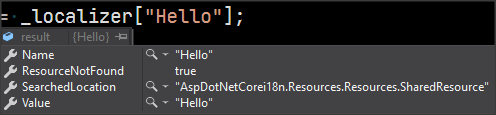
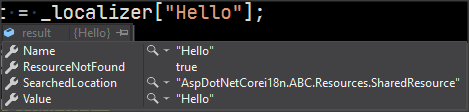
ok

diff --git a/DotNet/DotNet Core/ASP.NET Core/i18n/AddLocalization.md b/DotNet/DotNet Core/ASP.NET Core/i18n/AddLocalization.md
@@ -12,17 +12,11 @@ Package：`Microsoft.Extensions.Localization`
 
 ### ConfigureServices()
 
-startup.cs > ConfigureServices() 中 可不設定以下語法，就會套用預設值
-
-```csharp
-services.AddLocalization()
-```
+startup.cs > ConfigureServices() 中 可不設定 `services.AddLocalization()` ，就會套用預設值
 
 ### Configure()
 
-startup.cs > Configure() 要透過以下語法，才會讀取 request header Accept-Language
-
-並且將指定的語系設定至 Thread.CurrentThread 中的 `CurrentCulture` 及 `CurrentUICulture`，後續才可以透過 [IStringLocalizer\<T>](./IStringLocalizer.md) 來讀取 Resource Files
+startup.cs > Configure() 要透過下面的方式，才會讀取 request header Accept-Language，並且將指定的語系設定至 Thread.CurrentThread 中的 `CurrentCulture` 及 `CurrentUICulture`，後續才可以透過 [IStringLocalizer\<T>](./IStringLocalizer.md) 來讀取 Resource Files
 
 ```csharp
 var locOptions = app.ApplicationServices.GetService<IOptions<RequestLocalizationOptions>>();
@@ -33,11 +27,9 @@ app.UseRequestLocalization(locOptions.Value);
 
 ## 自訂 Resources 路徑
 
-所指定的目錄一定會以 `專案目錄/Resources` 做為根目錄
+所指定的目錄一定會以 `專案目錄` 做為根目錄，並且在指定目錄下找尋 `Resources` 的子目錄
 
-需要注意的是：
-- 目前找不到可以設定成 `專案目錄/自訂目錄/` 中的方式
-- 不支援相對路徑 `../自訂目錄` 這種方式
+需要注意的是不支援相對路徑 `../自訂目錄` 這種方式
 
 當 startup.cs > ConfigureServices() 中 設定以下語法時
 
@@ -45,13 +37,13 @@ app.UseRequestLocalization(locOptions.Value);
 services.AddLocalization(options => options.ResourcesPath = "ABC")
 ```
 
-就會尋找 `專案目錄/Resources/ABC` 中的 *.resx
+就會尋找 `專案目錄/ABC/Resources` 中的 *.resx
 
 ---
 
 ## 自訂 Resources 路徑的 Debug 方式
 
-在 Asp.Net Core 3.1 的情況下，當透過 IStringLocalizer\<T>["Key"].Value 找不到對應的 Value 時，就會直接顯示 Key 的名稱，而不會發生 Exception
+在 Asp.Net Core 3.1 的情況下，當透過 IStringLocalizer\<T>["Key"].Value 找不到對應的 Value 時，就會直接顯示 Key 的名稱，而不會發生 Exception。
 
 目前已知的 Debug 方式，就是透過 IStringLocalizer\<T>["Key"] 中的 `ResourceNotFound` 及 `SearchedLocation` 這二個 Property 來判斷
 
@@ -63,7 +55,7 @@ services.AddLocalization(options => options.ResourcesPath = "ABC")
 services.AddLocalization(options => options.ResourcesPath = "ABC")
 ```
 
-當Key `Hello` 時，就可以查看 `IStringLocalizer\<T>["Hello"]` 的內容
+當 Key 為 `Hello` 時，就可以查看 `IStringLocalizer\<T>["Hello"]` 的內容
 
 ![AltMessage](./_images/Annotation&#32;2020-04-12&#32;110438.png)
 
